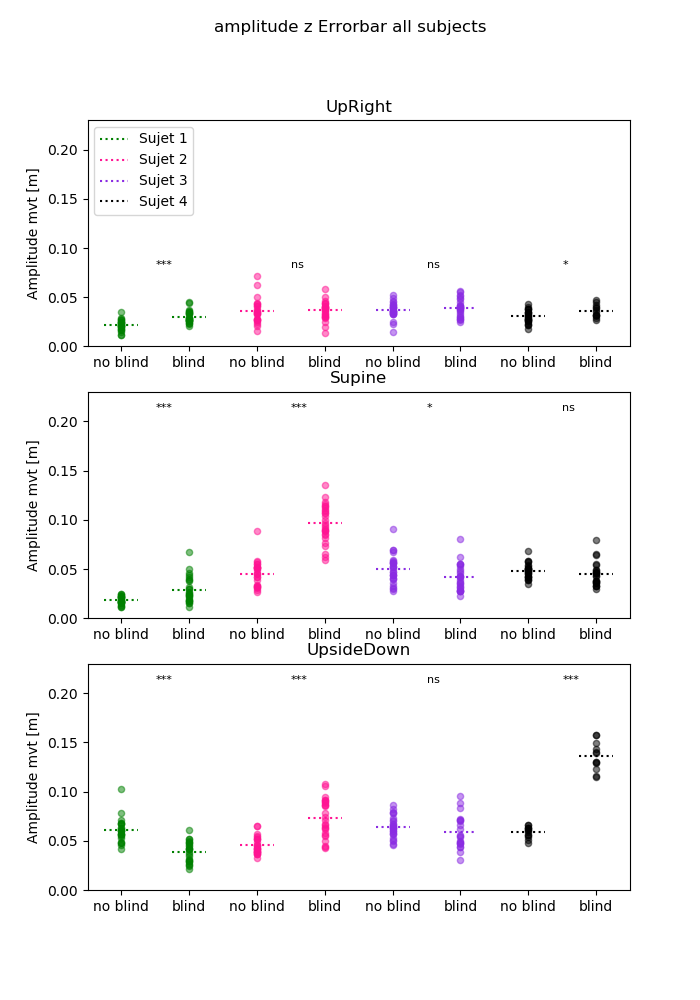
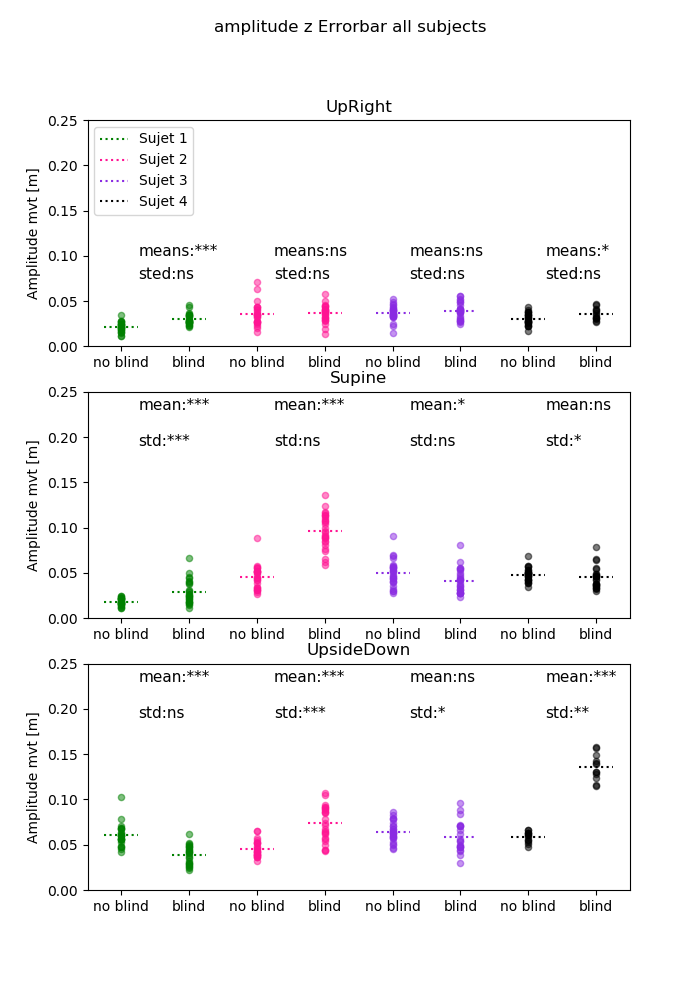
update code

diff --git a/codepython/Differencez/allsubjectsjustpvalue.py b/codepython/Differencez/allsubjectsjustpvalue.py
@@ -112,14 +112,16 @@ for p, ax in zip(positions, tup):
             ax.scatter(indexscatter1, openarray, color=sujetcolor[name], alpha=0.5,s=20)
             ax.plot(indexgraph2, plotarray2, linestyle='dotted', color=sujetcolor[name])
             ax.scatter(indexscatter2, closearray, color=sujetcolor[name], alpha=0.5,s=20)
-            ax.text(index[0] + 0.5, 0.08, '%s' % transformpvalue(p2), fontsize=8)
+            ax.text(index[0] + 0.25, 0.10, 'means:%s' % transformpvalue(p2), fontsize=11)
+            ax.text(index[0] + 0.25, 0.075, 'sted:%s' % transformpvalue(pvalbis), fontsize=11)
         else:
             ax.plot(indexgraph1, plotarray1, linestyle='dotted', color=sujetcolor[name])
             ax.scatter(indexscatter1, openarray, color=sujetcolor[name], alpha=0.5,s=20)
             ax.plot(indexgraph2, plotarray2, linestyle='dotted', color=sujetcolor[name])
             ax.scatter(indexscatter2, closearray, color=sujetcolor[name], alpha=0.5,s=20)
-            ax.text(index[0] + 0.5, 0.21, '%s' % transformpvalue(p2), fontsize=8)
-    ax.set_ylim(0.0, 0.23)
+            ax.text(index[0] + 0.25, 0.23, 'mean:%s' % transformpvalue(p2), fontsize=11)
+            ax.text(index[0] + 0.25, 0.19, 'std:%s' % transformpvalue(pvalbis), fontsize=11)
+    ax.set_ylim(0.0, 0.25)
     ax.set_xlim(0.85, 2.15)
     ax.set_xticks([1, 2, 3, 4, 5, 6, 7, 8])
     ax.set_xlim(0.5, 8.5)

diff --git a/codepython/Differencez/Just3and4.py b/codepython/Differencez/Just3and4.py
@@ -112,7 +112,8 @@ for p, ax in zip(positions, tup):
     ax.plot(indexgraph2, plotarray2, linestyle='dotted')
     ax.scatter(indexscatter1,arrayopenall , alpha=0.5, s=20)
     ax.scatter(indexscatter2, arraycloseall, alpha=0.5, s=20)
-    ax.text(index[0] + 0.5, 0.13, '%s' % transformpvalue(p2), fontsize=8)
+    ax.text(index[0] + 0.35, 0.13, 'mean:%s' % transformpvalue(p2), fontsize=12)
+    ax.text(index[0] + 0.375, 0.105, 'std:%s' % transformpvalue(pvalbis), fontsize=12)
     ax.set_ylim(0.0, 0.15)
     ax.set_xlim(0.8, 2.2)
     ax.set_xticks([1, 2])
